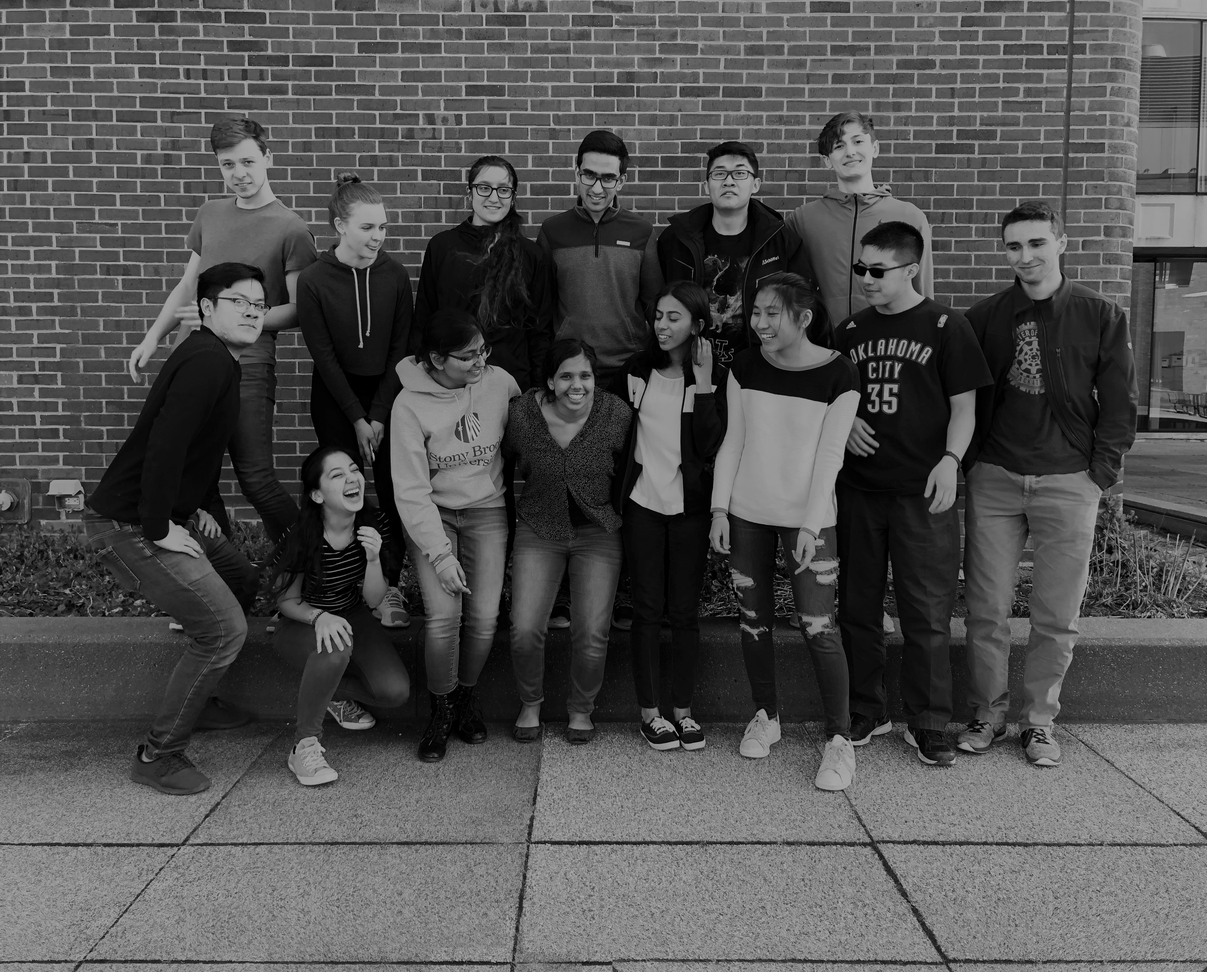
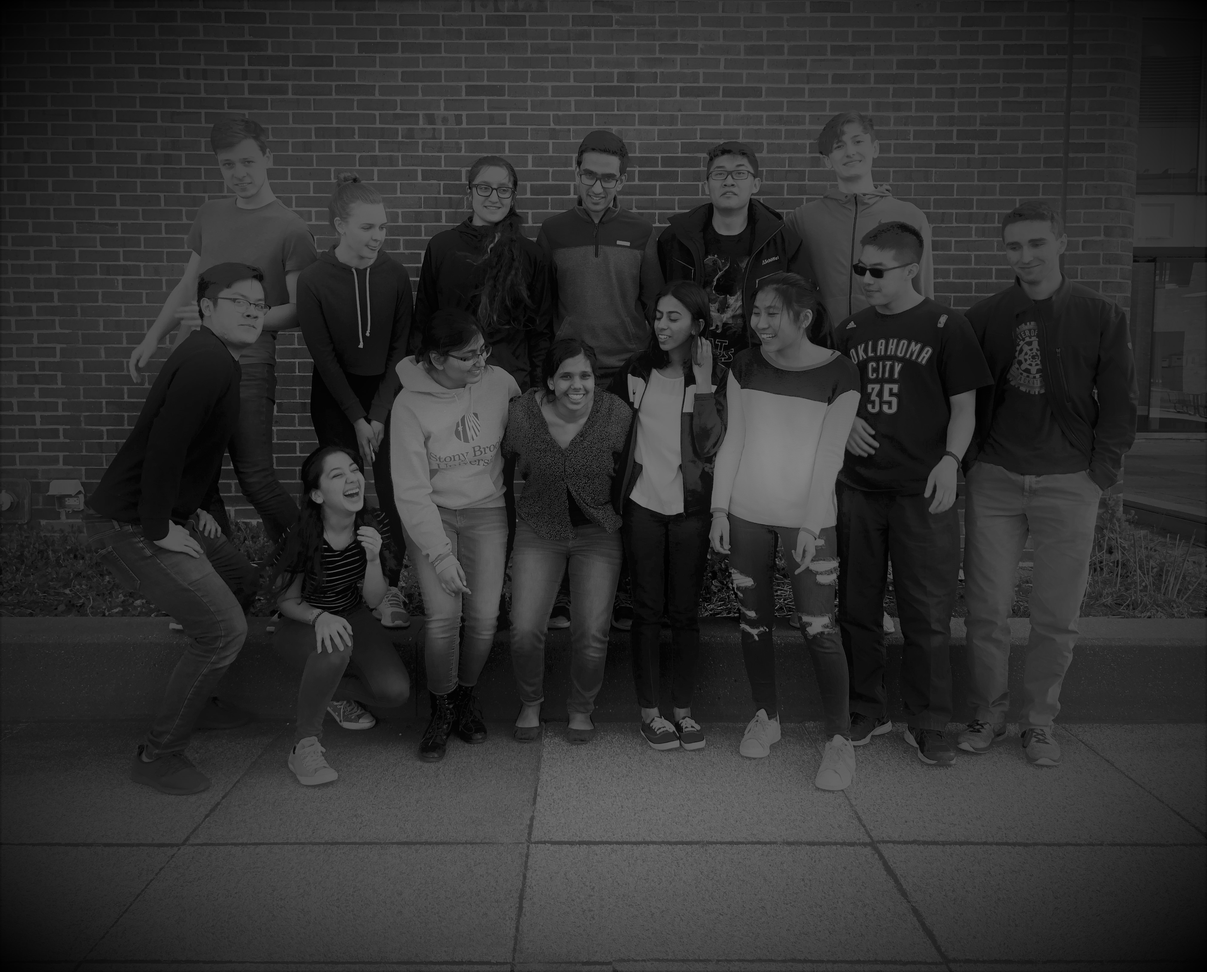
Changing wallpaper on team page + styles tweaking

diff --git a/team/team-members.html b/team/team-members.html
@@ -85,7 +85,10 @@
 			</div>
 		</nav>
 		<div class="container">
-			<!-- <h1>Team Members</h1> -->
+			<br><h1>Our Team</h1>
+			<p>
+				Stony Brook iGEM is not only the best iGEM team to have ever existed, but also the best team to have ever existed. We've got people. We've got teamwork. We've got trips to adventureland. We've got trips to Taco Bell. <i>We've got trips  to Taco Bell</i>. Take a few moments out of your day to bask in the glorious grid of colors and pictures that is our team. I can't come up with any more filler text. How's it going?
+			</p><br>
 			<div class="row">
 				<div class="container col-md-6 col-xl-4">
 					<div class="card idcard background-blue text-center">

diff --git a/css/styles.css b/css/styles.css
@@ -791,7 +791,13 @@
 			padding-bottom: 3em;
 			padding-left: 5em;
 			padding-right: 5em;
+			transition: .8s;
+			transform: scale(1.00, 1.00);
+		}
 
+		.idcard:hover {
+			transition: .5s;
+			transform: scale(1.02, 1.02);
 		}
 
 		.idphoto {
@@ -828,6 +834,6 @@
 
 		#teambody {
 			background-image: url("../images/team_background_extended.jpg");
-			background-size: cover;
+			background-size: cover 100%;
 		}
 }
